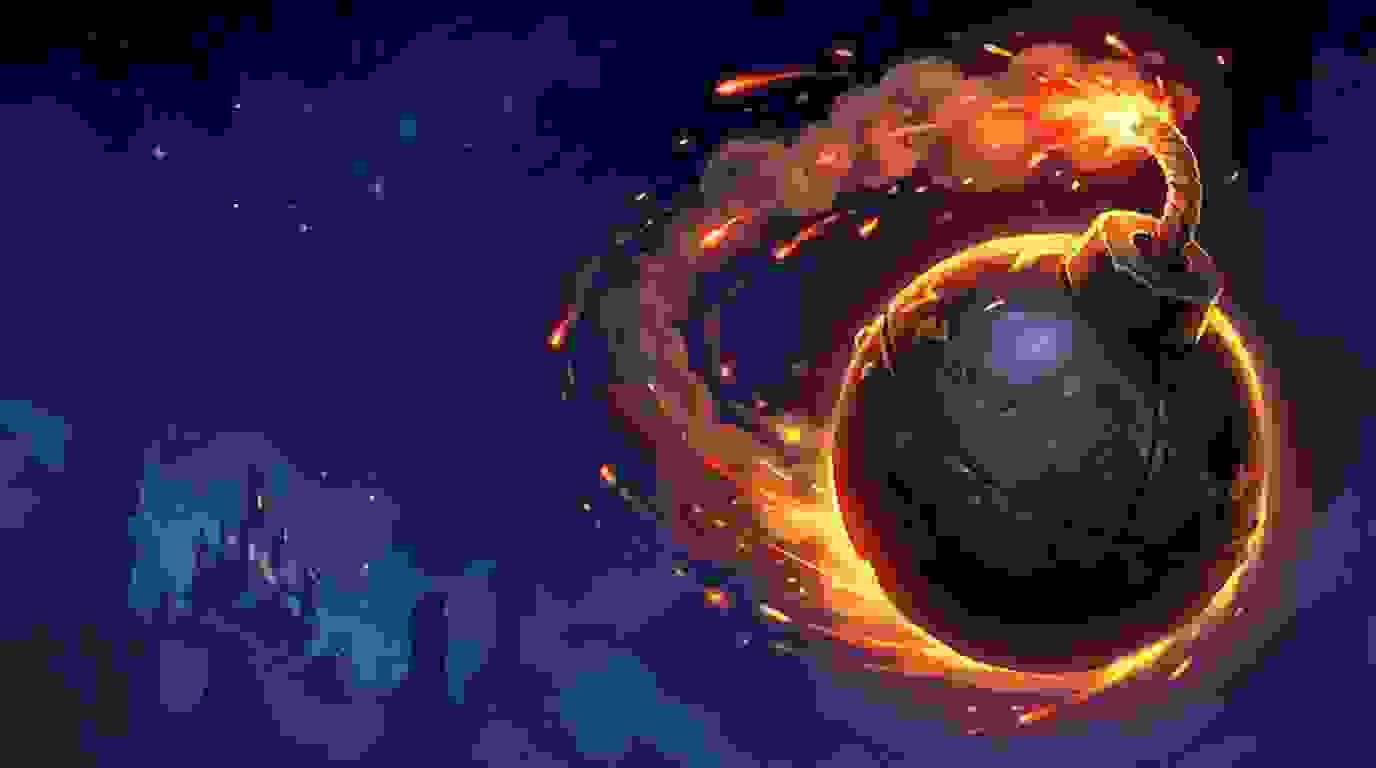
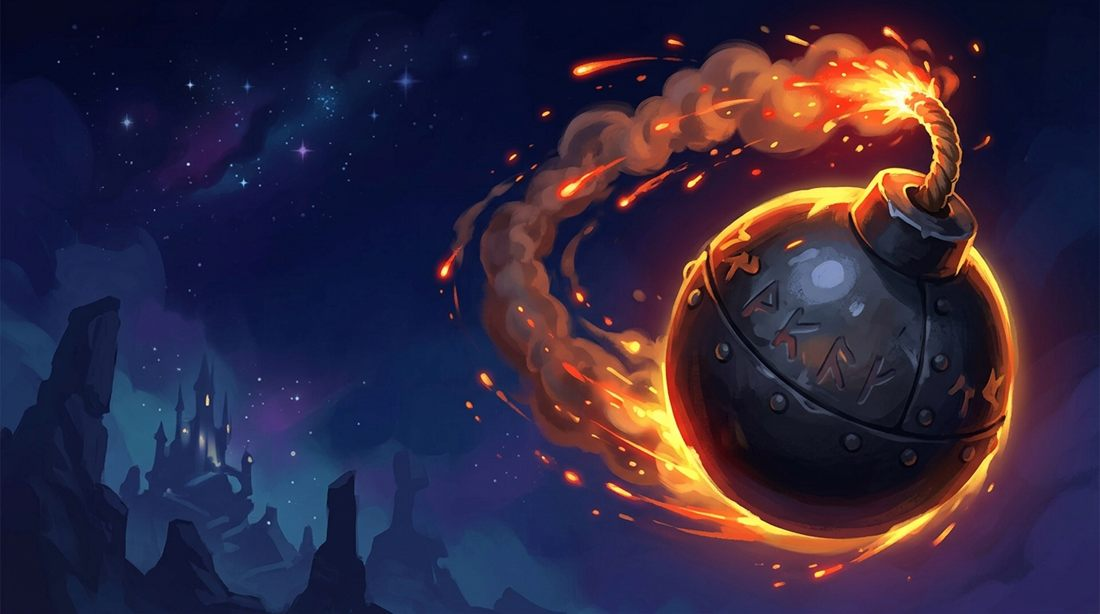
Games-Kacheln scharf: aus dem Original neu gespeichert (Pipeline speicherte mit JPG-Qualität 0)

diff --git a/sw.js b/sw.js
@@ -1,6 +1,6 @@
 /* Lernwerk Service Worker: eigene Dateien immer frisch vom Netz (Cache nur als Offline-Rückfall),
    Schriften/CDN aus dem Cache. Anfragen an Supabase werden nie zwischengespeichert. */
-const CACHE = 'lernwerk-v28';
+const CACHE = 'lernwerk-v29';
 const SHELL = ['./', 'index.html', 'css/style.css', 'css/games.css', 'fragen.js', 'js/grafik.js', 'js/spiel.js', 'js/app.js', 'js/konto.js', 'js/duell.js', 'js/games-gfx.js', 'js/games.js', 'js/games-karten.js', 'js/games-bombe.js', 'js/games-mio.js', 'js/games-arena.js', 'icons/icon.svg', 'manifest.webmanifest', 'img/hero.jpg'];
 self.addEventListener('install', e => { e.waitUntil(caches.open(CACHE).then(c => c.addAll(SHELL.map(u => new Request(u, {cache: 'reload'}))).catch(() => {}))); self.skipWaiting(); });
 self.addEventListener('activate', e => { e.waitUntil(caches.keys().then(ks => Promise.all(ks.filter(k => k !== CACHE).map(k => caches.delete(k))))); self.clients.claim(); });
